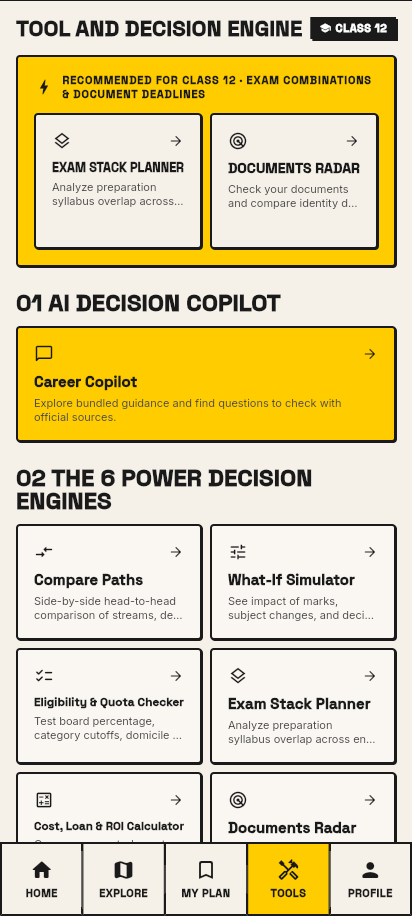
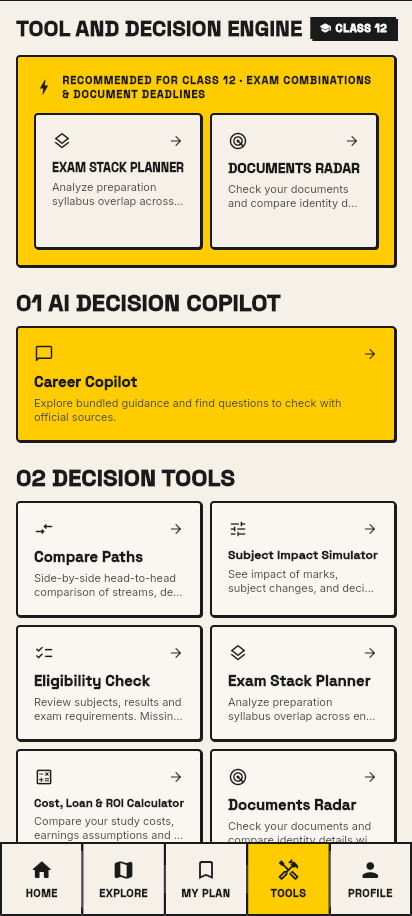
Align public feature names and prepare 1.2.2 early test

Changed region(s): [[0.0291, 0.4891, 0.9612, 0.917]]

diff --git a/README.md b/README.md
@@ -1,11 +1,11 @@
 # 🧭 Mārgadarshak — मार्गदर्शक
 
-> *“The one who shows the path.”*  
-> **The guide I needed at 16.**  
-> A career decision system for Indian students and parents — from Class 9 to postgraduate study.
+> *“The one who shows the path.”*\
+> **The guide I needed at 16.**\
+> A career decision system for Indian students and parents — with eleven starting points, including repeat attempts and Other / Not Sure.
 
-[![Android Preview](https://img.shields.io/badge/Android-Early_Testing-FFCC00?style=for-the-badge&logo=android&logoColor=1A1A1A)](https://github.com/prasadsince1999/MargaDarshak/releases/tag/v1.2.1-preview.1)
-[![Release](https://img.shields.io/badge/Preview-v1.2.1-0055FF?style=for-the-badge&logo=github)](https://github.com/prasadsince1999/MargaDarshak/releases/tag/v1.2.1-preview.1)
+[![Android Preview](https://img.shields.io/badge/Android-Early_Testing-FFCC00?style=for-the-badge&logo=android&logoColor=1A1A1A)](https://github.com/prasadsince1999/MargaDarshak/releases/tag/v1.2.2-preview.1)
+[![Release](https://img.shields.io/badge/Preview-v1.2.2-0055FF?style=for-the-badge&logo=github)](https://github.com/prasadsince1999/MargaDarshak/releases/tag/v1.2.2-preview.1)
 [![Stack](https://img.shields.io/badge/Stack-Flutter_%7C_Dart-02569B?style=for-the-badge&logo=flutter&logoColor=white)](#-tech-stack--architecture)
 [![Ethical Stance](https://img.shields.io/badge/Ethical_Stance-No_Pay--to--Rank-FFCC00?style=for-the-badge)](#the-non-negotiable-ethical-charter)
 [![Product Website](https://img.shields.io/badge/Product_Page-ksmxtech.com-0E2244?style=for-the-badge&logo=googlechrome&logoColor=white)](https://ksmxtech.com/margadarshak/)
@@ -13,7 +13,7 @@
 
 Mārgadarshak turns scattered career information into a stage-wise visual map: **stream choices, exams, requirements, institutions, scholarships, documents, costs, practical next steps and backup routes.**
 
-**What can I do now? Which options should I check? What if I change my mind? What is my backup?**
+**All the “what if?” questions, answered before the decision becomes regret.**
 
 Students explore possibilities. Parents understand the trade-offs. Neither should have to make a life decision from coaching advertisements or half information.
 
@@ -29,11 +29,11 @@ Mārgadarshak is currently available as a **signed early-test APK** through GitH
 
 | Release | Artifact | Android | Verification |
 |---|---|---|---|
-| **1.2.1 · build 4** | [**MargaDarshak-1.2.1-build4-early-test.apk**](https://github.com/prasadsince1999/MargaDarshak/releases/tag/v1.2.1-preview.1) | **7.0+ / API 24** | Release signature and published-file checksum checked |
+| **1.2.2 · build 5** | [**MargaDarshak-1.2.2-build5-early-test.apk**](https://github.com/prasadsince1999/MargaDarshak/releases/tag/v1.2.2-preview.1) | **7.0+ / API 24** | Release signature and published-file checksum checked |
 
 ### How to install
 
-1. Download the APK from the [early-test release](https://github.com/prasadsince1999/MargaDarshak/releases/tag/v1.2.1-preview.1).
+1. Download the APK from the [early-test release](https://github.com/prasadsince1999/MargaDarshak/releases/tag/v1.2.2-preview.1).
 2. Open the downloaded file.
 3. If Android asks, allow installation from that source and tap **Install**.
 4. Launch Mārgadarshak and start as **Guest**.
@@ -63,9 +63,9 @@ Indian students navigate **critical life decisions** — stream selection after 
 
 Families need more than a list of career names. They need to understand subjects, requirements, costs, daily work, deadlines and alternatives.
 
-> *“I don't know what to do after 10th or 12th.”*  
-> *“I like computers. What can I learn first?”*  
-> *“My parents want Engineering, but I want Design — how do we compare?”*  
+> *“I don't know what to do after 10th or 12th.”*\
+> *“I like computers. What can I learn first?”*\
+> *“My parents want Engineering, but I want Design — how do we compare?”*\
 > *“If this exam does not work out, what is my backup?”*
 
 **The aim:** turn a confusing choice into a clear set of options, a practical next action and a backup worth investigating.
@@ -84,6 +84,17 @@ The [evidence library](https://ksmxtech.com/margadarshak/evidence-library/) coll
 - **Honest Verification:** a document self-check is not official approval; a practice result is not a career qualification.
 - **Student and Parent Agency:** explain trade-offs without shaming the student or using fear to sell a subscription.
 - **Respect for Privacy:** keep private student evidence separate from public catalogue information and public issues. Local storage is not advertised as encryption.
+
+---
+
+## 🚀 What’s New in v1.2.2 (Consistent Feature Names)
+
+- **Subject Impact Simulator**, **Eligibility Check** and **Parent Mode** now keep the same public names across their app entry points.
+- **Future Ready Check** has its original named Tools entry. It currently shares the Documents Radar self-check flow; broader preparation checks remain in development.
+- **Career Copilot** explicitly describes prepared responses and preview usage; connected Claude assistance is planned.
+- The editor prototype is named **Guidance Review Centre**. It is excluded from the default APK; authenticated review and shared catalogue publishing remain planned.
+- The local website preview brings all eleven feature families into one interactive section, with fictional examples. Production website publication is separate from this APK release.
+- Updated early-test privacy disclosure explains multiple local stores and the current limits of account and deletion controls.
 
 ---
 
@@ -133,19 +144,19 @@ These tools remain part of the current app. Their existence does not make every 
 - Keep Plan A, Plan B and Plan C distinct, with their own requirements and next actions.
 - The student chooses whether to change a plan; the app cannot secure an admission or enrol a backup automatically.
 
-### 💳 2. Parent ROI & Education Loan EMI Calculator
+### 💳 2. Cost, Loan & ROI Calculator
 
 - Edit tuition, living costs, earnings assumptions, interest and loan tenure.
 - See study costs and repayment burdens before committing to a route.
 - Calculations depend on entered assumptions; they are not salary forecasts or guaranteed payback dates.
 
-### 🧠 3. Pressure & Mental Load Check
+### 🧠 3. Pressure Check
 
 - Reflect on study pressure, workload and family expectations.
 - Use practical prompts to start a calmer conversation.
 - This is a reflection tool, not a clinical diagnosis.
 
-### 🔄 4. Wrong Stream Bridge Finder
+### 🔄 4. Wrong Stream Bridge
 
 - Investigate other study and career routes when interests change.
 - Explore relevant options such as computing, law, management and technical further study.
@@ -163,7 +174,7 @@ These tools remain part of the current app. Their existence does not make every 
 - Current answers are prepared local guidance, not Claude model inference.
 - Connected source-based explanations and notice processing are planned.
 
-### 👨👩👧 7. Parent Decision Hub
+### 👨👩👧 7. Parent Mode
 
 - Bring budget, time, preferences and alternatives into one family conversation.
 - Related tools include the cost calculator, Goal Bridge and Pressure Check.
@@ -173,7 +184,7 @@ These tools remain part of the current app. Their existence does not make every 
 
 ## ✨ Core Features — From the First Build to Today
 
-The feature names follow the product website. Technical routes and some current app labels differ; related tools remain distinct.
+Public feature names match the website preview. Technical routes remain stable, and related tools stay distinct.
 
 ### 1. 🌳 Stage-Aware Roadmap & Vertical Node Tree
 
@@ -205,7 +216,7 @@ The feature names follow the product website. Technical routes and some current 
 
 ### 6. 📋 Future Ready Check & Documents Radar
 
-- Future Ready Check covers preparation questions and missing details.
+- Future Ready Check has its original named entry and currently shares the document self-check flow. Broader preparation checks remain a workstream.
 - Documents Radar is a related checklist and identity-consistency self-check.
 - Recorded completion means **checked by you**, not approval by an admission authority. No guaranteed certificate turnaround is implied.
 
@@ -213,7 +224,7 @@ The feature names follow the product website. Technical routes and some current 
 
 - Investigate what changes when subjects or streams change.
 - Put two routes side by side and review available time, cost, exam and backup information.
-- The Subject Impact Simulator is currently labelled **What-If Simulator** in the app.
+- **Subject Impact Simulator** is the same public name in Home, Tools, detail screens and the website preview. Technical `/what-if` and `/simulator` routes remain compatible aliases.
 
 ### 8. 🧩 Foundation Check
 
@@ -250,13 +261,13 @@ The local app offers **eleven stage choices**. They provide context for explorat
 | **Class 10** | Which subjects or technical route should I consider? | Stream exploration, Subject Impact Simulator, Compare Paths and Parent Mode. |
 | **Class 11** | How do my subjects connect to my goals? | Subject impact, exam awareness, foundations and alternatives. |
 | **Class 12** | What can I investigate and prepare next? | Exam Stack Planner, Eligibility Check, documents, scholarships and backups. |
-| **Diploma** | Work or further technical study? | Technical careers, apprenticeships and applicable lateral-entry routes. |
-| **ITI** | Where can my trade lead? | Trade careers, apprenticeships and further education. |
+| **Diploma / Polytechnic** | Work or further technical study? | Technical careers, apprenticeships and applicable lateral-entry routes. |
+| **ITI / Vocational** | Where can my trade lead? | Trade careers, apprenticeships and further education. |
 | **Undergraduate** | What should I explore while studying? | Career roles, learning topics, internships and further-study options. |
 | **Graduate** | Work, further study or an exam route? | Job options, postgraduate routes and alternatives. |
 | **Postgraduate** | Specialist career or research? | Advanced roles, research and further qualifications. |
-| **Dropper** | How do I prepare while keeping another option open? | Exam strategy, Backup Trigger, Pressure Check and plan review. |
-| **Not Sure** | Where should I start? | Clarify the current situation and explore without assuming a complete profile. |
+| **Dropper / Repeater** | How do I prepare while keeping another option open? | Exam strategy, Backup Trigger, Pressure Check and plan review. |
+| **Other / Not Sure** | Where should I start? | Clarify the current situation and explore without assuming a complete profile. |
 
 ---
 
@@ -284,13 +295,13 @@ The screenshots show actual current app views. Earlier audit grades, blanket con
 | **Core exploration and tools** | Local screens, calculations and bundled guidance available. | Content review and student-parent usability checks. |
 | **Stage and parent experience** | Eleven stage choices and local family views. | Broader stage coverage and native-device validation. |
 | **Plans and practical steps** | Main paths, backups and milestone progress. | Further scenario and persistence checks. |
-| **Android packaging** | Signed 1.2.1 early-test APK published. | Pilot validation before wider release. |
+| **Android packaging** | Signed 1.2.2 early-test APK published. | Pilot validation before wider release. |
 | **Language and accessibility** | Partial translations and shared design components. | Reviewed translations, screen readers, magnification and device testing. |
 | **Admin workspaces** | Local dashboard, sources, roadmap, institution, moderation and draft-review prototypes. | Authenticated backend, durable drafts and real catalogue publishing. |
 | **Claude and reviewed updates** | Planned. | Source ingestion, structured extraction, evaluation and human review. |
 | **Subscription** | Direction approved; no price or billing period announced. | Real receipts, entitlements, renewal, cancellation and clear terms. |
 
-### Planned admin → student workflow
+### Guidance Review Centre — planned admin → student workflow
 
 ```text
 Official education notice
@@ -328,12 +339,12 @@ Application source is maintained privately. This public repository holds the pro
 
 ## 🧪 Verification & Test Suite
 
-For the 1.2.1 early-test release:
+For the 1.2.2 early-test release:
 
 - Release APK assembled and Android signature verified.
 - Published APK downloaded and matched against the original SHA-256 digest.
-- **14 tests passed** across four selected subscription, admin, editorial and capability test files.
-- App-code analysis reported no issues; whole-project analysis reported three informational findings in screenshot tests.
+- **48 tests passed** across five selected naming/capability, stage-persona, admin, editorial and prepared-AI test files.
+- App-code analysis reported no issues. The wider motion suite still has an unresolved comparison/detail header-position expectation; it is not counted as passed.
 
 These checks do not establish complete data review, native-device readiness, connected services or accessibility certification. The [early-test notes](EARLY-TEST-NOTES.md) retain the exact scope and known limitations.
 
@@ -343,7 +354,7 @@ These checks do not establish complete data review, native-device readiness, con
 
 The public repository is an **APK and product showcase**, so cloning it will not provide the Flutter application source.
 
-1. Install the [early-test APK](https://github.com/prasadsince1999/MargaDarshak/releases/tag/v1.2.1-preview.1).
+1. Install the [early-test APK](https://github.com/prasadsince1999/MargaDarshak/releases/tag/v1.2.2-preview.1).
 2. Explore a career, compare two routes or try a cost calculation.
 3. Save a main path and a backup, then inspect the next practical step.
 4. Share where the wording, available data or navigation becomes confusing.
@@ -361,7 +372,7 @@ Educators, students and parents can help shape the product through practical fee
 - Suggest clearer wording, missing options or official sources to investigate.
 - Keep personal certificates, identity numbers and private student records out of public issues.
 
-[**Report a problem or suggestion →**](https://github.com/prasadsince1999/MargaDarshak/issues)  
+[**Report a problem or suggestion →**](https://github.com/prasadsince1999/MargaDarshak/issues)\
 [**Contact KSM × Tech →**](mailto:support@ksmxtech.com)
 
 ---
@@ -374,9 +385,9 @@ Earlier Apache-licensed distributions retain their original terms. Making later 
 
 ---
 
-Created with ❤ by Prasad at KSM × Tech Studio.  
+Created with ❤ by Prasad at KSM × Tech Studio.\
 *“Built on family values. Guided by truth.”* — **सत्यं · मांगल्यम् · रूपान्तरम्**
 
 ### The guide I needed at 16.
 
-[Website](https://ksmxtech.com/margadarshak/) · [Evidence library](https://ksmxtech.com/margadarshak/evidence-library/) · [Android preview](https://github.com/prasadsince1999/MargaDarshak/releases/tag/v1.2.1-preview.1)
+[Website](https://ksmxtech.com/margadarshak/) · [Evidence library](https://ksmxtech.com/margadarshak/evidence-library/) · [Android preview](https://github.com/prasadsince1999/MargaDarshak/releases/tag/v1.2.2-preview.1)

diff --git a/EARLY-TEST-NOTES.md b/EARLY-TEST-NOTES.md
@@ -1,11 +1,17 @@
 # Early testing — 7 October 2026
 
-Package: `com.ksmxtech.margadarshak` · version `1.2.1` · build `4` · minimum Android API 24 · target API 36.
+Package: `com.ksmxtech.margadarshak` · version `1.2.2` · build `5` · minimum Android API 24 · target API 36.
 
[2 lines of base64/hex data omitted]
 
-Release APK assembled successfully and verified with Android apksigner (v2 signature). Four selected subscription, admin, editorial and capability test files passed (14 tests); `flutter analyze lib` found no issues. Whole-project analysis reported three existing test-only `avoid_print` informational findings. No physical-device installation, complete source-data review, paid-service integration or Play Store publication is claimed.
+Release APK assembled successfully; Android apksigner verified its v2 signature. No admin flag was used. Five selected capability/naming, all-stage persona, admin workspace, editorial and prepared-AI screen test files passed (48 tests). `flutter analyze lib --no-pub` found no issues.
 
-Screenshots use a demo profile in the browser, not a native-device pilot. Some catalogue dates and default provenance are sample/unreviewed content. Compare Paths logged a 2px vertical overflow in the browser. Please report a reproducible issue with device, stage and steps, without personal records.
+Actual local-browser navigation confirmed Subject Impact Simulator, Eligibility Check and Future Ready Check titles. The Tools screenshot uses a demo profile, not a native-device pilot. Eleven website stage choices and eleven interactive feature examples passed response/reset and keyboard checks; the local product page fits 320/390/768/1158/1440px. Website publication is separate from the APK.
 
-Claude inference, automated notice ingestion, production admin publishing, confidential proof storage, family cloud sync and recurring billing remain planned or local prototypes. Subscription prices and periods are not approved.
+The wider motion suite has an unresolved comparison/detail header-position expectation; it is not counted as passed. Some catalogue dates and default provenance remain sample/unreviewed content. A previously observed 2px Compare Paths overflow is not certified fixed by these checks. Hot restart logged a disposed Flutter web-view assertion; subsequent named-route navigation succeeded. Native-device installation, full large-text/screen-reader checks and critical source review remain release work. Gradle/AGP/Kotlin compatibility and Cupertino icon-font warnings remain.
+
+Career Copilot uses prepared responses, not Claude inference. Guidance Review Centre is an editor prototype excluded from the standard APK; no real shared catalogue is published. Future Ready Check has its original entry and currently shares Documents Radar self-check UI. Cloud sync, private proof storage and subscription billing remain planned. Prices and billing periods are not approved.
+
+Settings clears named preferences, but full deletion across the separate plan database and all service stores is not yet verified. Clear Android app storage for a device-local reset; exported copies and provider records require separate handling. Sign-in controls are currently unavailable while configuration is reviewed.
+
+Please report a reproducible issue with device, stage and steps, without personal documents or sensitive student records.
